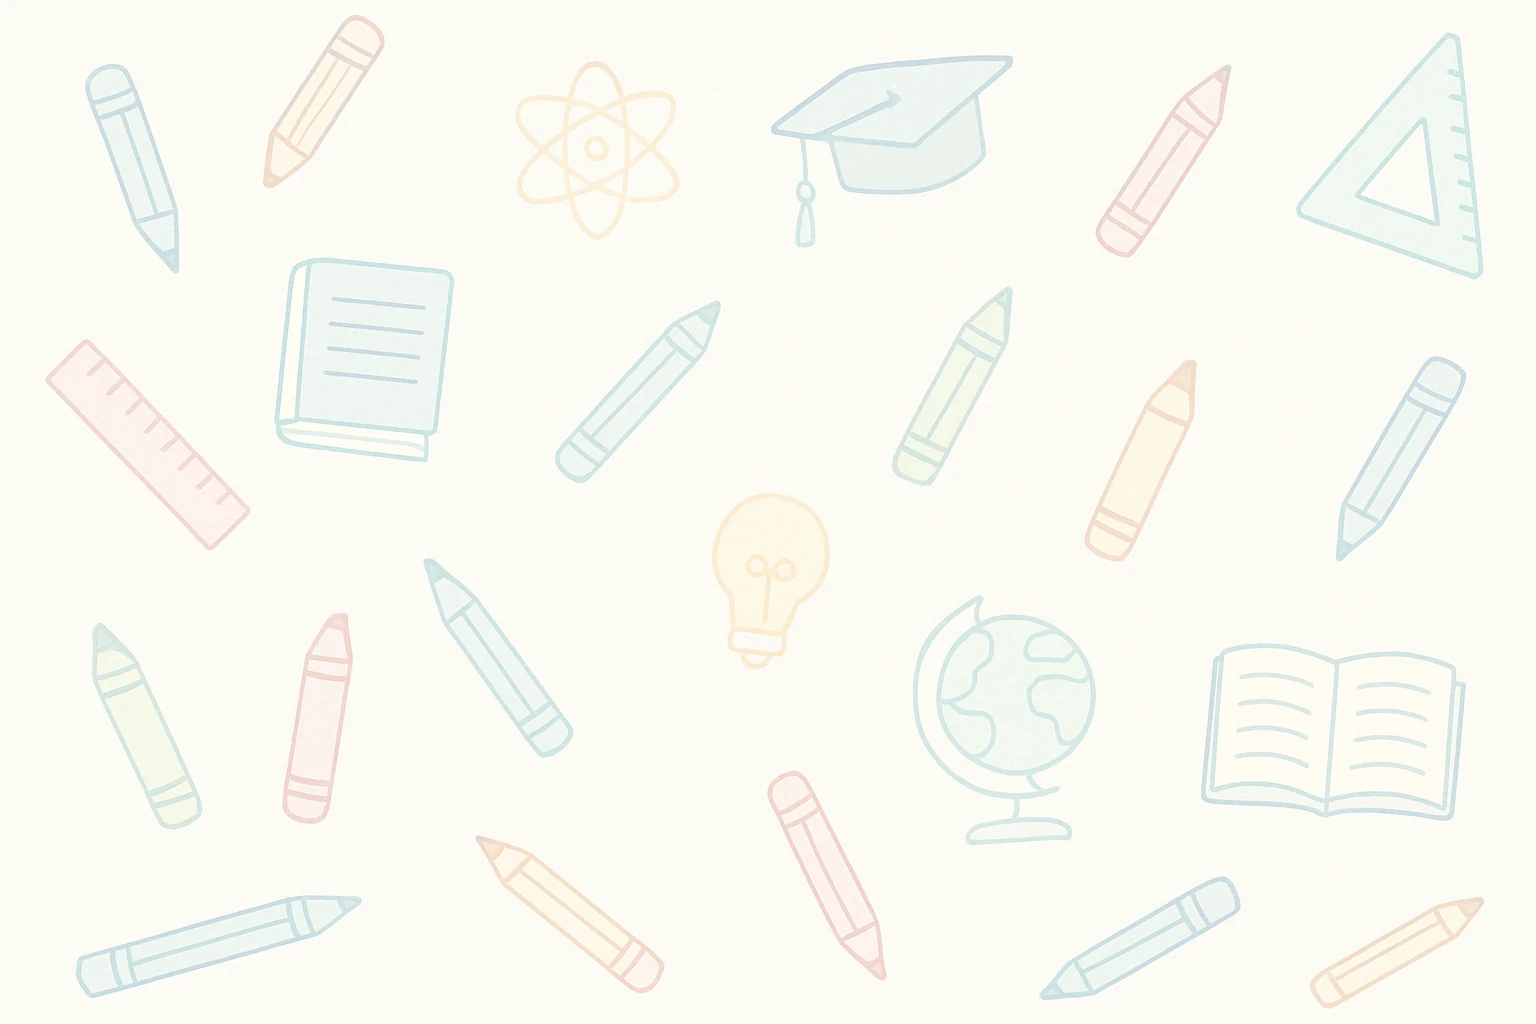
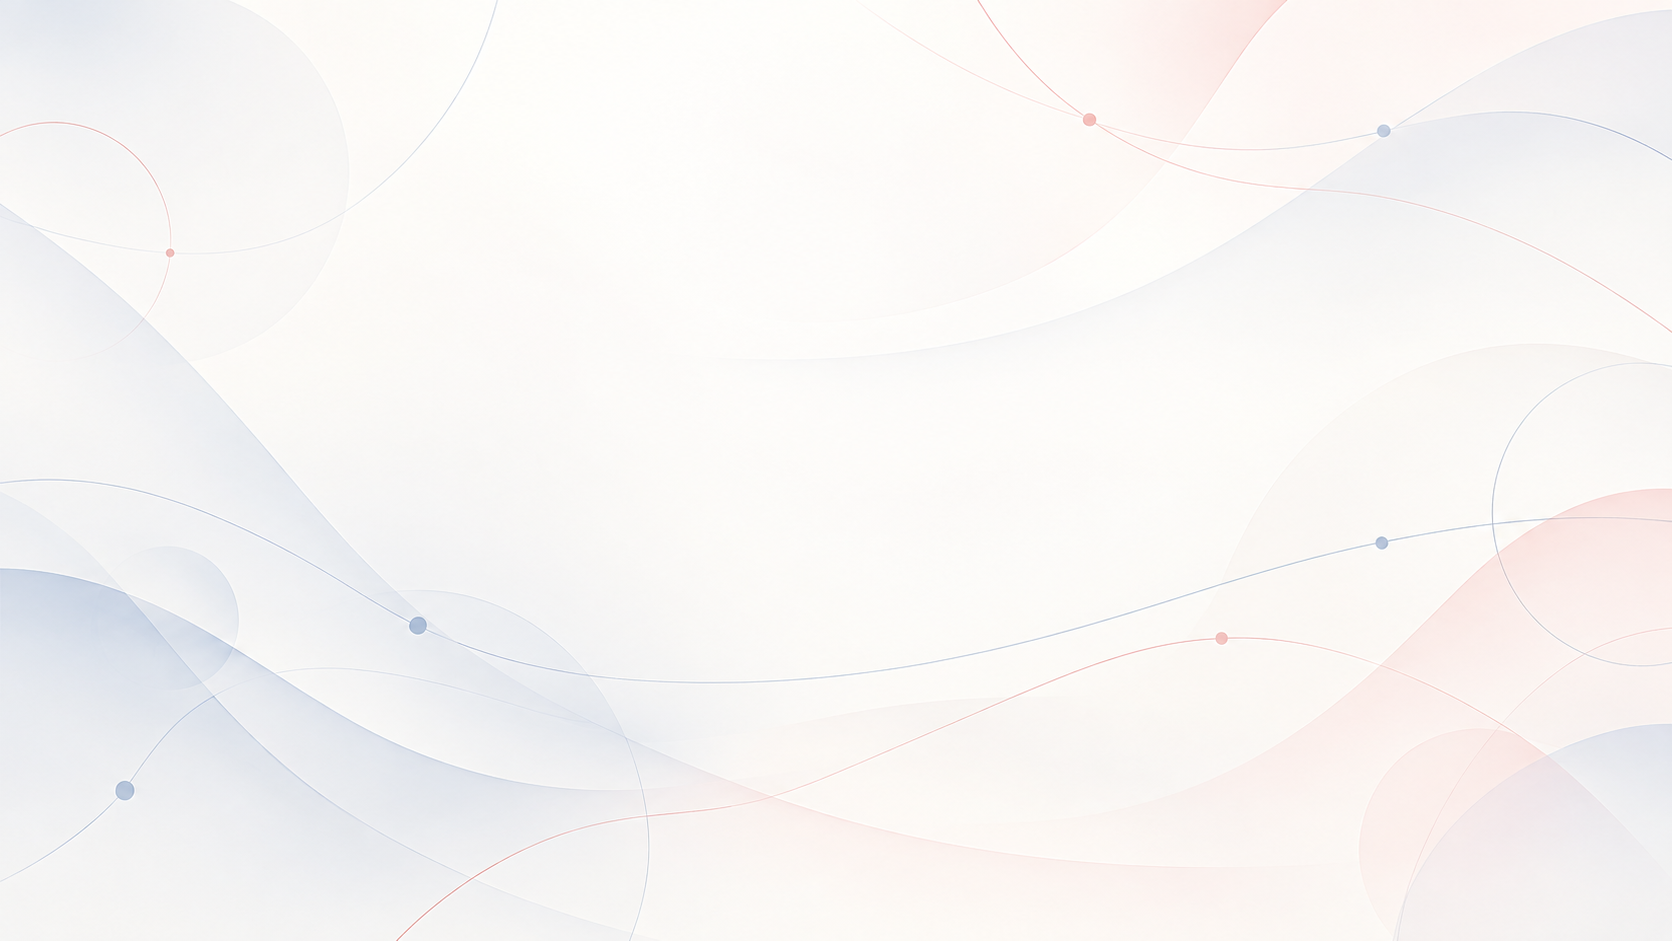
chore: apply minor content update (#25)

diff --git a/src/styles/base/_Settings.scss b/src/styles/base/_Settings.scss
@@ -18,7 +18,8 @@ $content-image-hover-scale: 1.3;
 * {
   margin: 0;
   padding: 0;
-  box-sizing: border-box;}
+  box-sizing: border-box;
+}
 
 html {
   font-size: 100%;
@@ -38,11 +39,11 @@ body::before {
   left: 0;
   width: 100%;
   height: 100%;
-  // background-image: url('/backgroundPage.webp');
+  background-image: url('/backgroundPage.webp');
   background-size: cover;
   background-repeat: no-repeat;
   background-position: center;
-  opacity: 0.8; // 0.3 opacity
-  filter: blur(2px); // 2px blur
+  opacity: .8; // 0.3 opacity
+  filter: blur(.5px); // 2px blur
   z-index: -1;
 }
